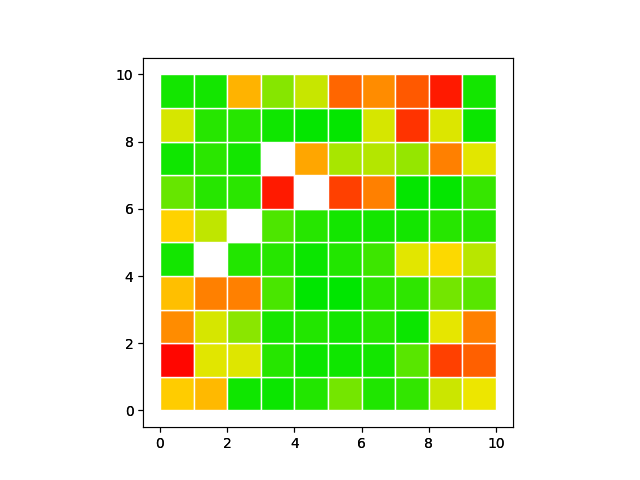
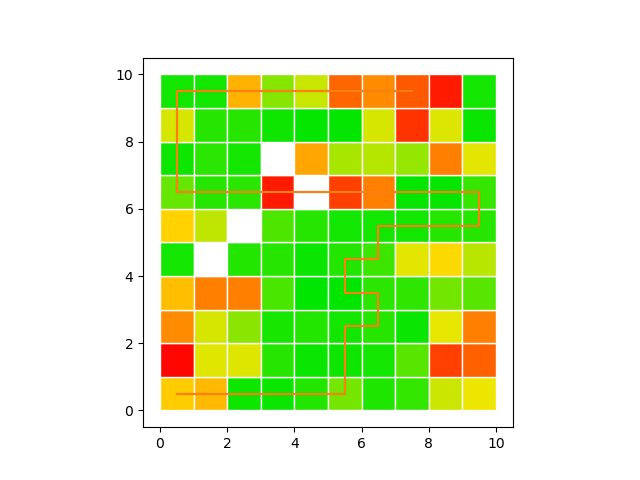
plotted bus lines

diff --git a/squares.py b/squares.py
@@ -3,7 +3,7 @@ import numpy as np
 import random
 
 
-def mapPlot(squares,gridSize,dataInterpolated):
+def mapPlot(squares,gridSize,dataInterpolated,linesDictSquares):
     plt.axes()
     for m in range(gridSize):
         for n in range(gridSize):
@@ -19,6 +19,11 @@ def mapPlot(squares,gridSize,dataInterpolated):
                 #print("no data, visualising as white square")
             plt.gca().add_patch(rectangle)
     plt.axis('scaled')
+    for key in linesDictSquares:
+        a=linesDictSquares[key]
+        x1=[int(i)%gridSize+0.5 for i in a]
+        y1=[int(int(i)/gridSize)+0.5 for i in a]
+        plt.plot(x1, y1)
     if(dataInterpolated):
         plt.savefig('img/interpolated.png')
     else:

diff --git a/evaluateLines.py b/evaluateLines.py
@@ -43,14 +43,14 @@ with open("data/squares.dat", "r") as f:
 
 
 #plot map with initial pollution levels
-mapPlot(pollutionValues, gridSize, dataInterpolated)
+mapPlot(pollutionValues, gridSize, dataInterpolated, linesDictSquares)
 
 #call interpolation function for missing data
 for square in noDataSquares:
     pollutionValues[square]=interpolate(gridSize,square,pollutionValues)
     dataInterpolated=True
 #plot map with interpolations
-mapPlot(pollutionValues, gridSize, dataInterpolated)
+mapPlot(pollutionValues, gridSize, dataInterpolated,linesDictSquares)
 
 # evaluate pollution levels on each line (this has to be reimplemented better)
 for key in linesDictSquares:
